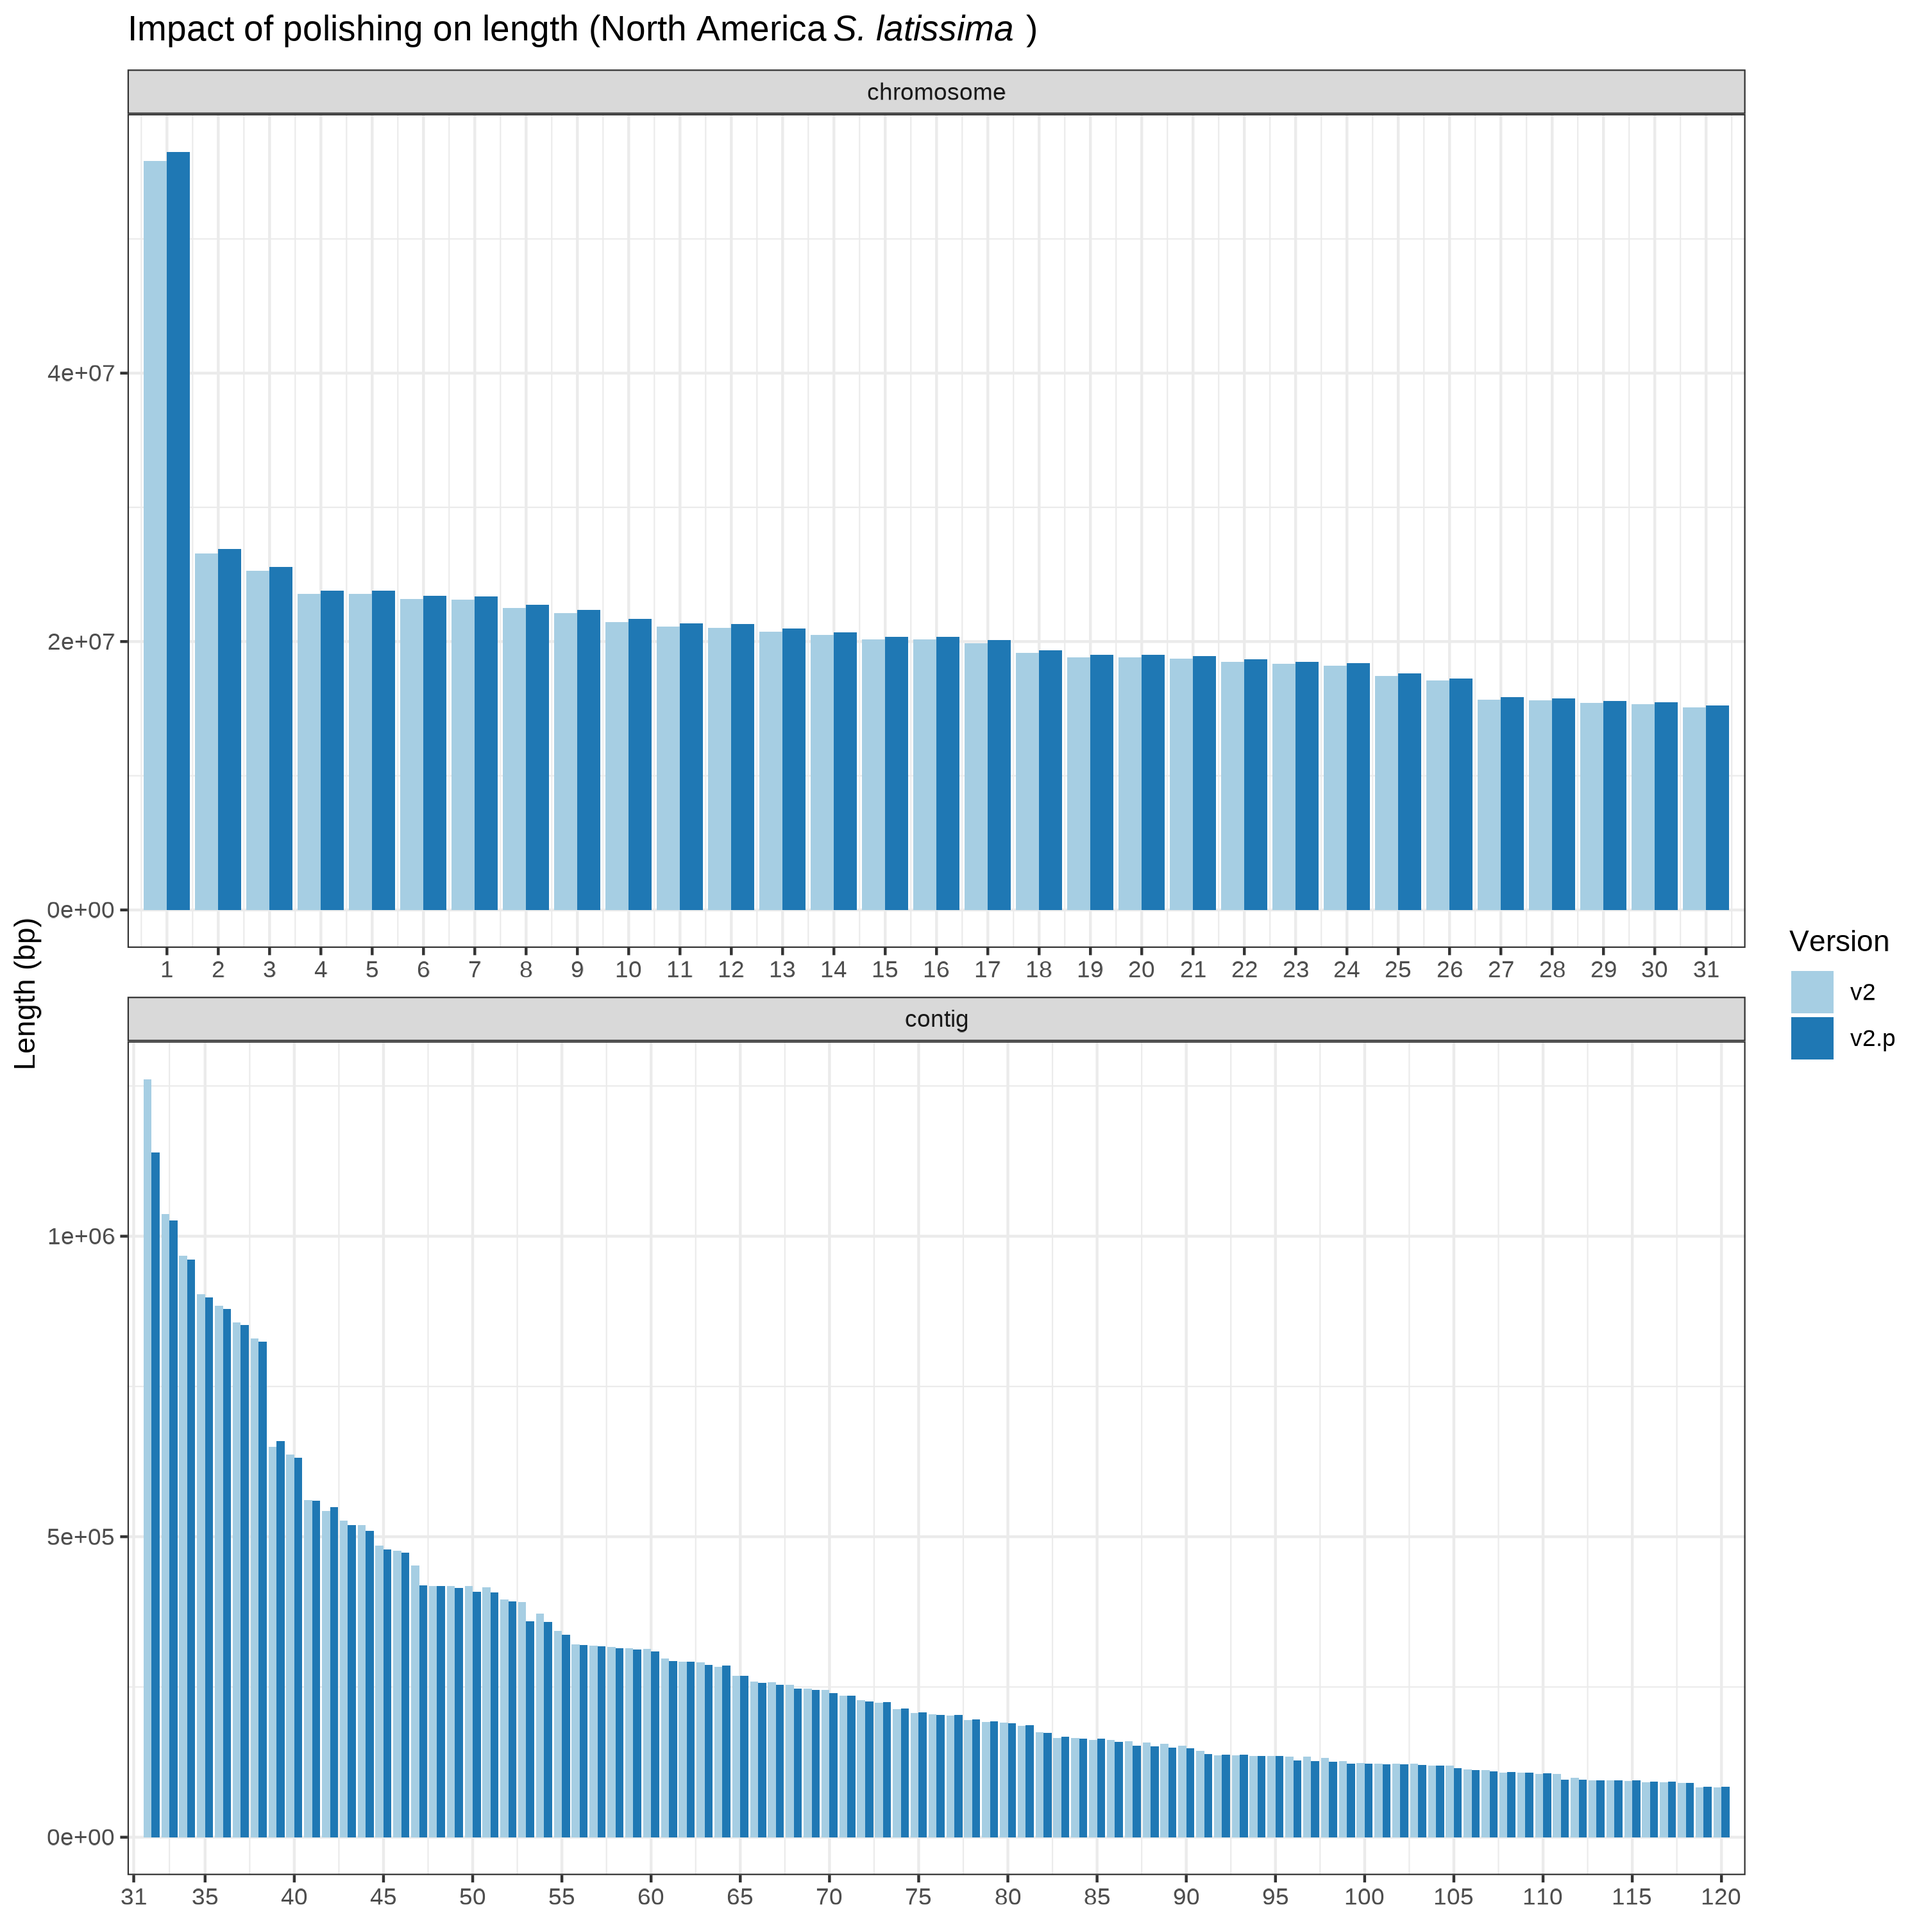
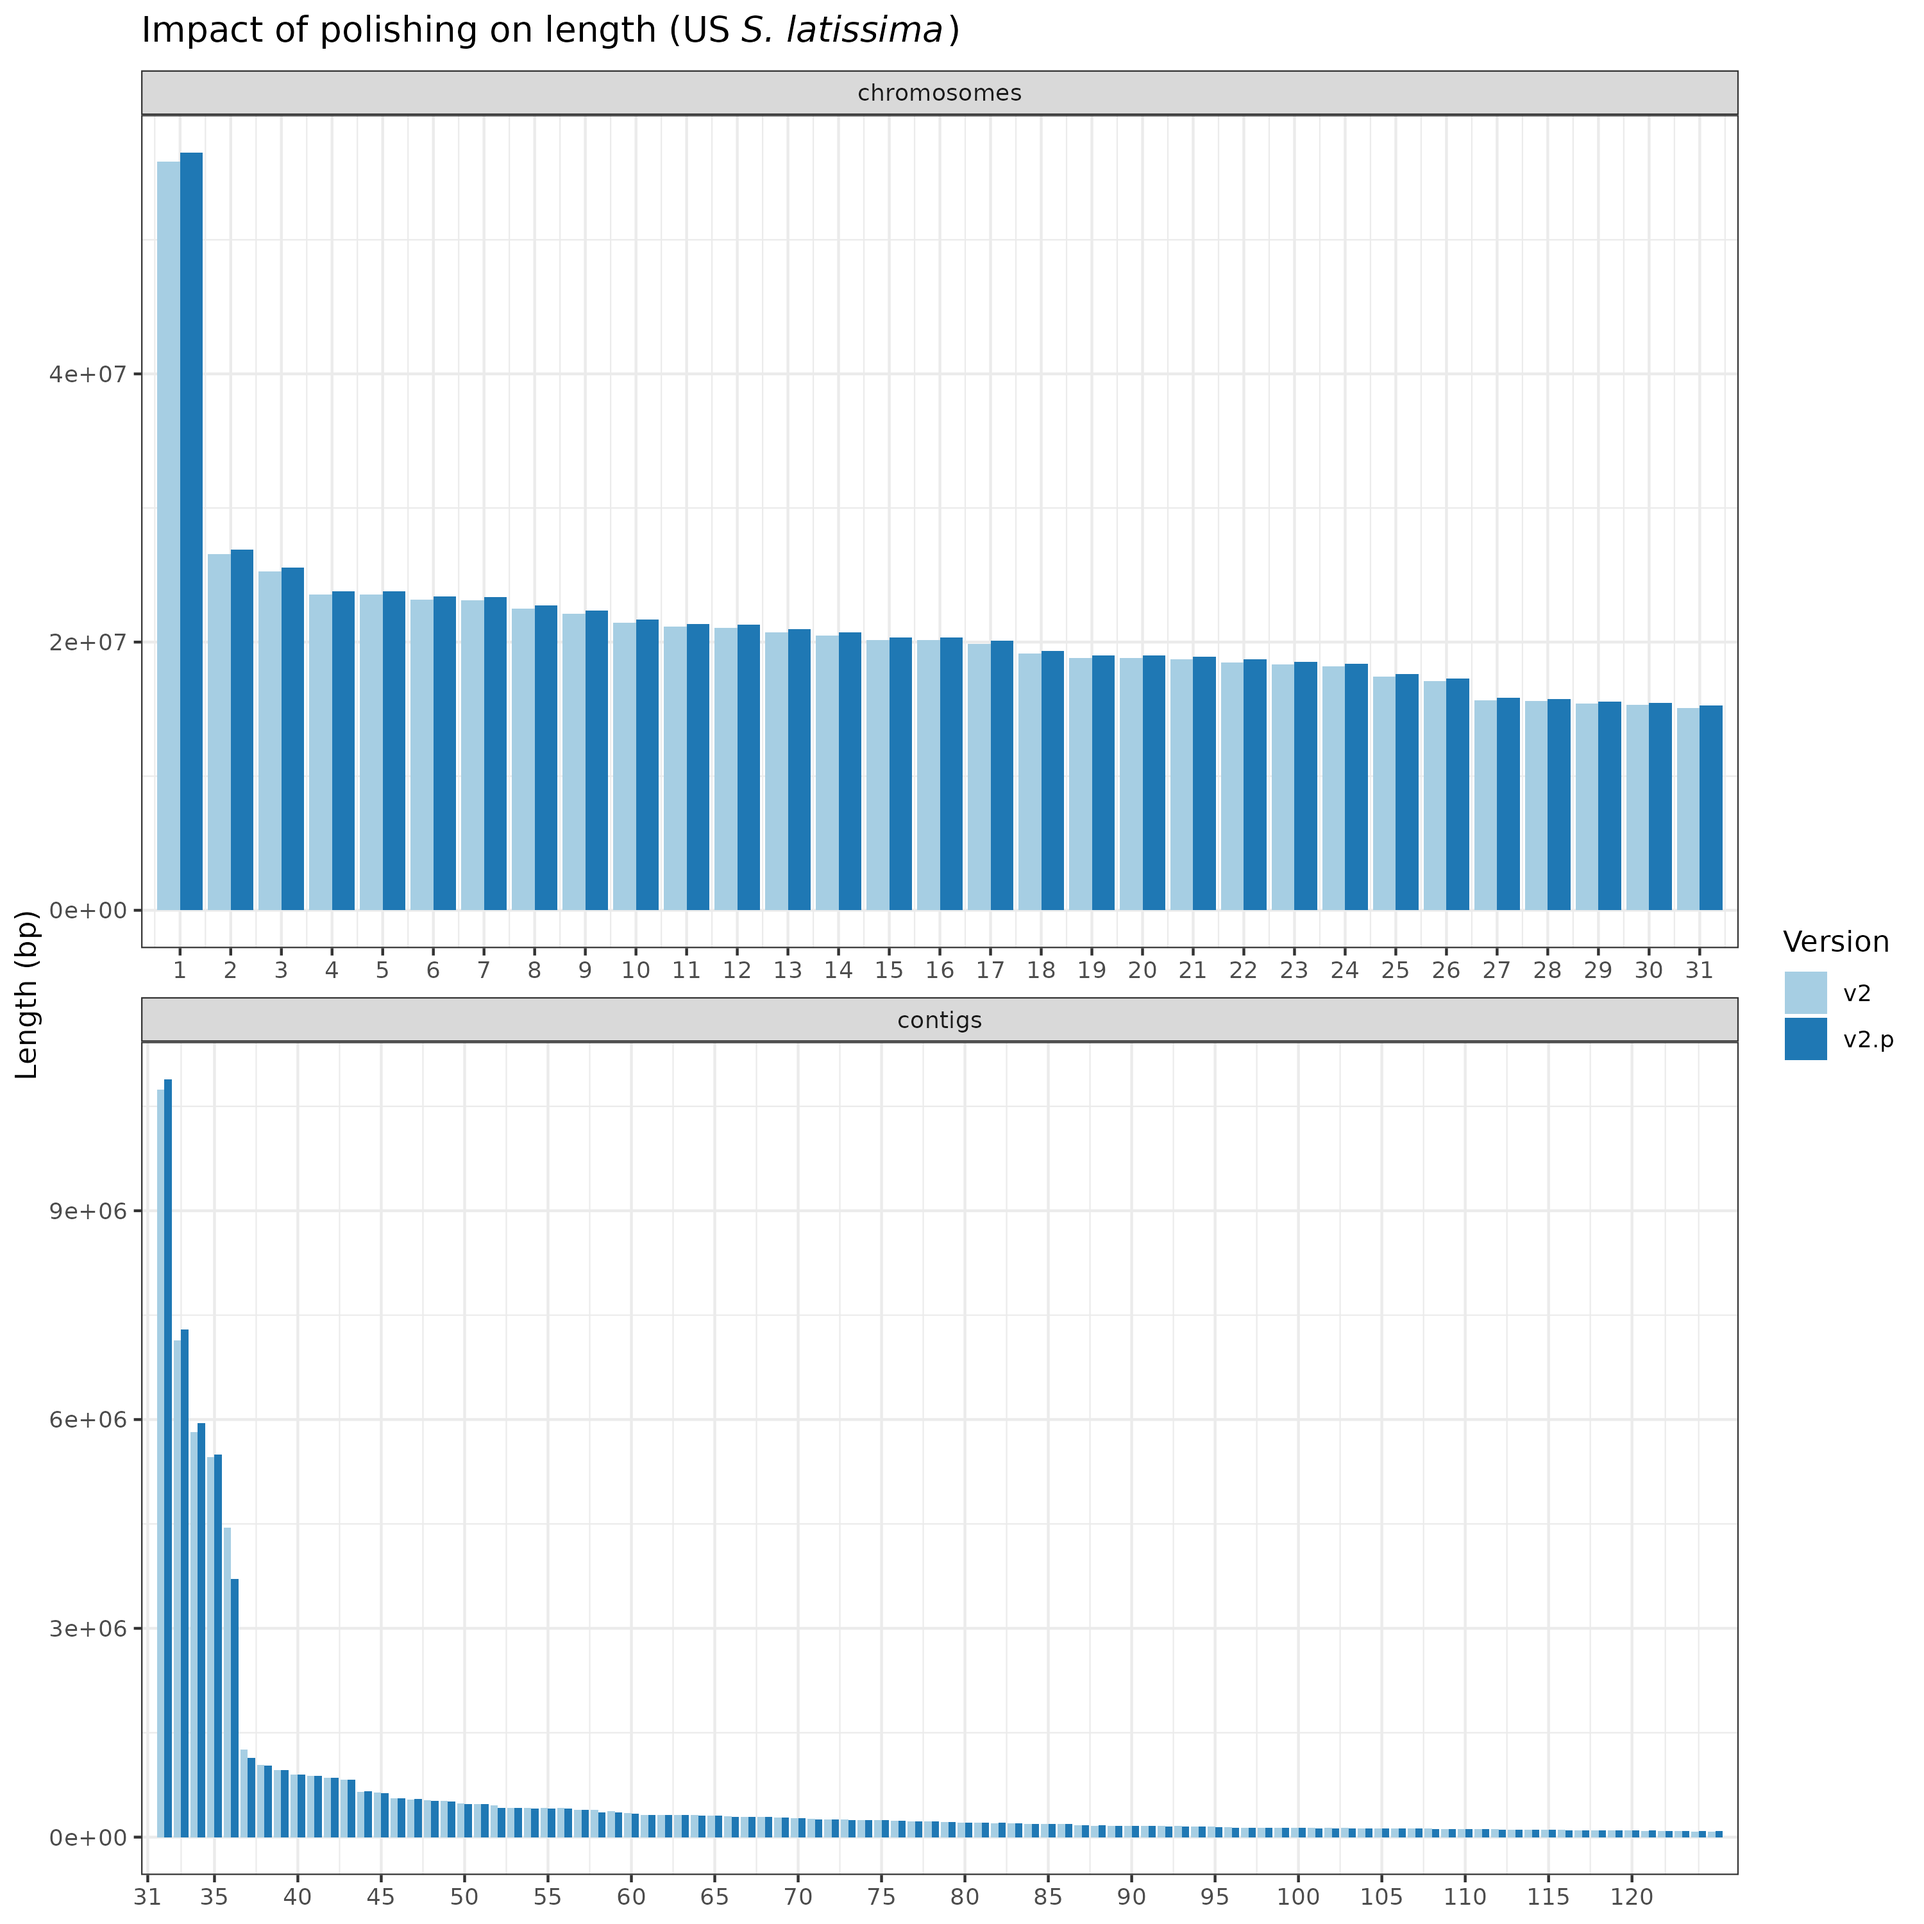
Added all figures!

Changed region(s): [[0.0, 0.0, 0.93, 0.992], [0.682, 0.341, 0.899, 0.527], [0.899, 0.465, 0.992, 0.558]]

diff --git a/README.md b/README.md
@@ -92,10 +92,30 @@ Generate BUSCO summary files and comparative plots after the BUSCO jobs have com
 sbatch s-latissima-genome-v2/eval_genomes.sh s-latissima-genome-v2/genomes_metadata.tsv s-latissima-genome-v2/busco_compare.sbatch
 ```
 
-##### Result
+##### Results
+
+Stramenopiles BUSCO
 ![alt text](figures/busco_stramenopiles_odb12.2.png)
 
+Eukaryota BUSCO
+![alt text](figures/busco_eukaryota_odb12.2.png)
+
+### Evaluation of assembly composition
+
 Assembly-length and scaffold-contiguity visualization with [`scaffold_eval.R`](scaffold_eval.R) is planned but is not yet called by the pipeline.
+
+##### Results
+
+Comparisons of chromosome and contig lengths across all compared species, highlighting assembly statistics
+![alt text](figures/scaffold_sizes_violin_log.png)
+![alt text](figures/scaffold_sizes_bar.png)
+
+Comparison of chromosome and contig lengths between US and France *S. latissima* v2 assemblies
+![alt text](figures/comp_v2_length.png)
+
+Impact of polishing on chromosome and contig lengths in US *S. latissima* v2 assembly
+![alt text](figures/comp_polish_length.png)
+
 
 ## 4. Cactus installation
 
@@ -153,6 +173,10 @@ sbatch s-latissima-genome-v2/hal_extract.sbatch cactus_pangenome_01-28-26_603980
 sbatch s-latissima-genome-v2/pangenome_plots.sbatch
 ```
 
+##### Results
+
+![alt text](figures/pangenome_plots/whole_genome_ribbon.png)
+
 ### Visualize per-chromosome pangenome graphs with ODGI
 
 Generate per-chromosome graph visualizations with [ODGI](https://github.com/pangenome/odgi).
@@ -178,7 +202,7 @@ Generate a pangenome graph with [ntSynt-viz](https://github.com/bcgsc/ntSynt-viz
 ##### Example
 
 ```bash
-sbatch s-latissima-genome-v2/ntSynt_viz.sbatch s-latissima-genome-v2/s_latissima_align1.txt cactus_pangenome_01-28-26_6039802
+sbatch s-latissima-genome-v2/ntSynt_viz.sbatch s-latissima-genome-v2/s_latissima_align1.txt cactus_pangenome_results/01-28-26_6039802
 ```
 
 ## 6. Multi-species whole-genome alignment with Progressive Cactus
@@ -196,6 +220,17 @@ Create a guide tree for the genomes listed in the [Progressive Cactus](https://g
 ```bash
 sbatch s-latissima-genome-v2/make_guide_tree.sbatch s-latissima-genome-v2/s_latissima_prog_align.txt
 ```
+
+##### Results
+
+Distribution of orthologs with unique sequence in orthogroups conserved across all compared species
+![alt text](figures/s_latissima_prog_align-unique_og_dist.png)
+
+Neighbor-joining (NJ) and Maximum-likelihood (ML) trees built from BUSCO predicted protein alignments
+![alt text](figures/s_latissima_prog_align-NJ_ML_trees.png)
+
+Maximum-likelihood (ML) tree showing BUSCO predicted protein alignments
+![alt text](figures/s_latissima_prog_align-msa_ML_tree.png)
 
 ### Filter assemblies by contig length
 
